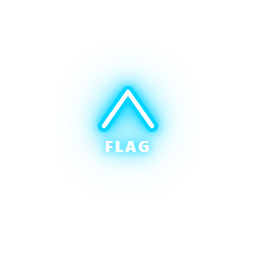
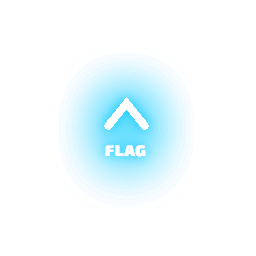
feat(client): reverse-engineer leader arrow and align CTF tracking arrows

Changed region(s): [[0.2812, 0.3125, 0.7188, 0.75]]

diff --git a/Game.Engine/wwwroot/src/styles/components/_hud-indicators.scss b/Game.Engine/wwwroot/src/styles/components/_hud-indicators.scss
@@ -49,7 +49,7 @@
   z-index: $z-index-canvas;
 
   &--leader {
-    filter: hue-rotate(235deg);
+    // Displays authentic retro-neon red glow directly from sprite asset
   }
 
   &--ctf-blue {
